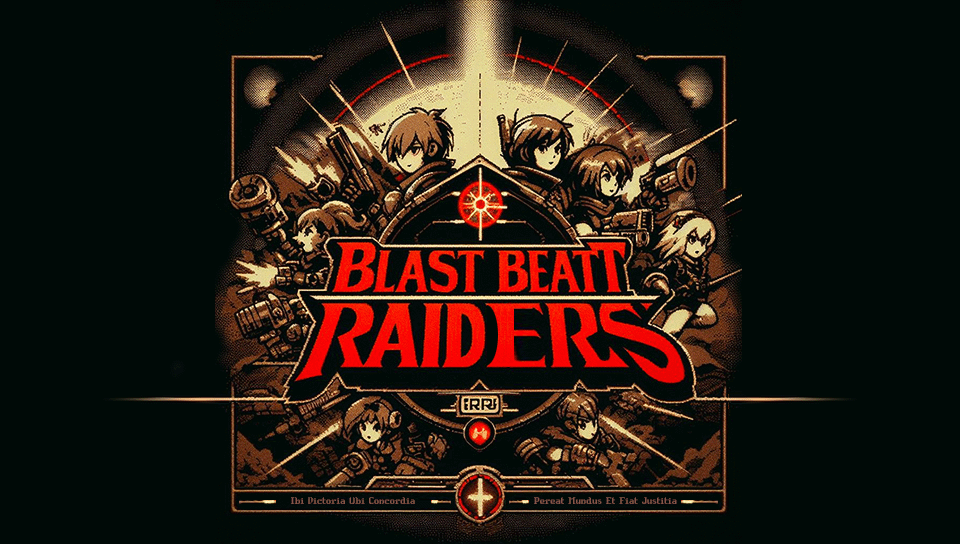
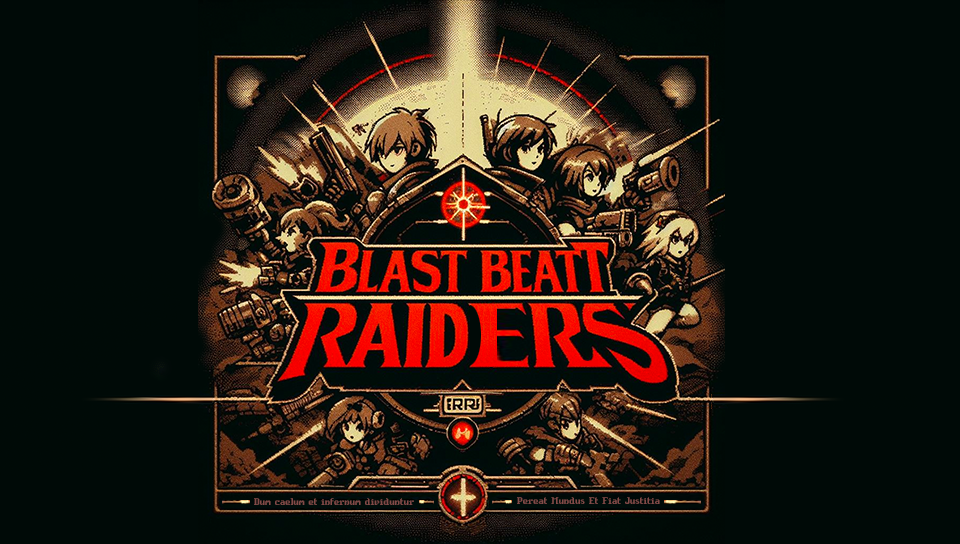
Added README

diff --git a/README.md b/README.md
@@ -1,0 +1,24 @@
+# BlastBEATT Raiders
+![splash](assets/g/a/aab.png)
+*" —Whilst heaven and hell remain divided // Let the world perish and justice be done —"* 
+
+---
+
+## About
+**BlastBEATT Raiders** is a dungeon crawler RPG for homebrew-enabled **Playstation Vita** consoles. It features design elements based off of the Game Boy Advance-era [Sting Entertainment (株式会社スティング)](https://en.wikipedia.org/wiki/Sting_Entertainment) titles, primarily [Rivera: The Promised Land](https://en.wikipedia.org/wiki/Riviera:_The_Promised_Land).
+
+The project is intended to be a personal love letter to the studio's NTSC-localized games, and an excuse to *~~torture myself with~~* finally learn C++.
+
+## Story Synopsis (tbd)
+The game is set in a post-apocalyptic world where the player must navigate through a series of dungeons to uncover the truth behind the world's destruction. The game features a unique combat system, a deep story, and retro-inspired graphics.
+
+## Progress
+So far I've got just a demo of the intro splash screens and main menu. The game is still in its early stages, but I'm working on it whenever I can.
+
+## License
+Thisn project is under a dual license of the GNU General Public License v3 (source code) and the CC BY 4.0 License (assets). See the appropriate `LICENSE` files for more information.
+
+---
+
+
+*As of current, this project does contain some AI generated assets. I will inevitably be working on replacing these with original assets. If you have any questions or concerns, or would like to contribute to eliminate these, please feel free to reach out to me.*
